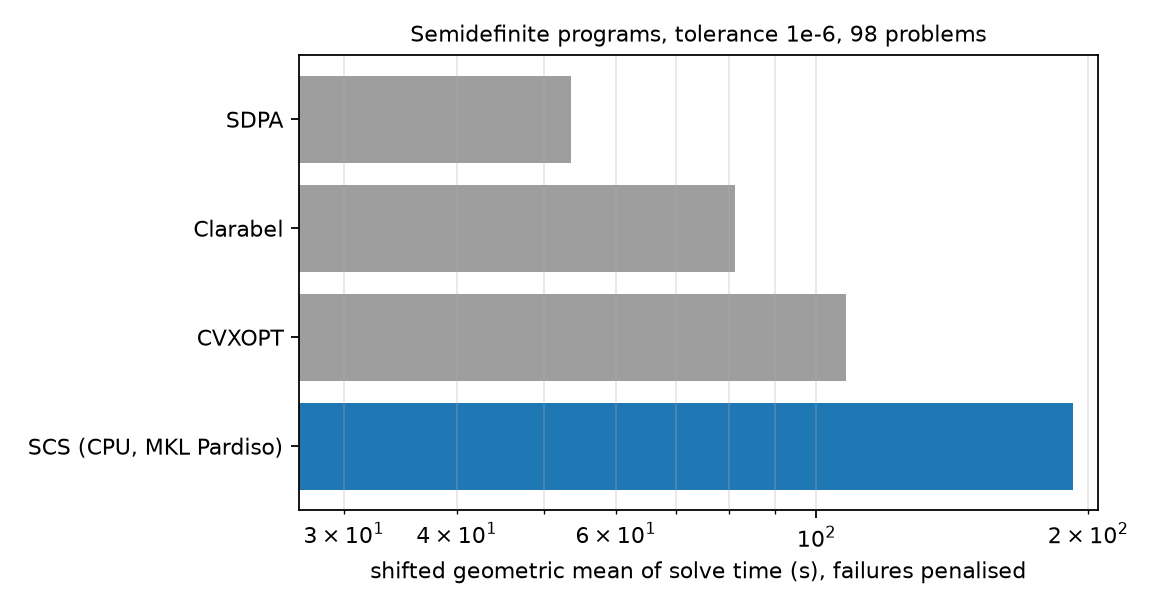
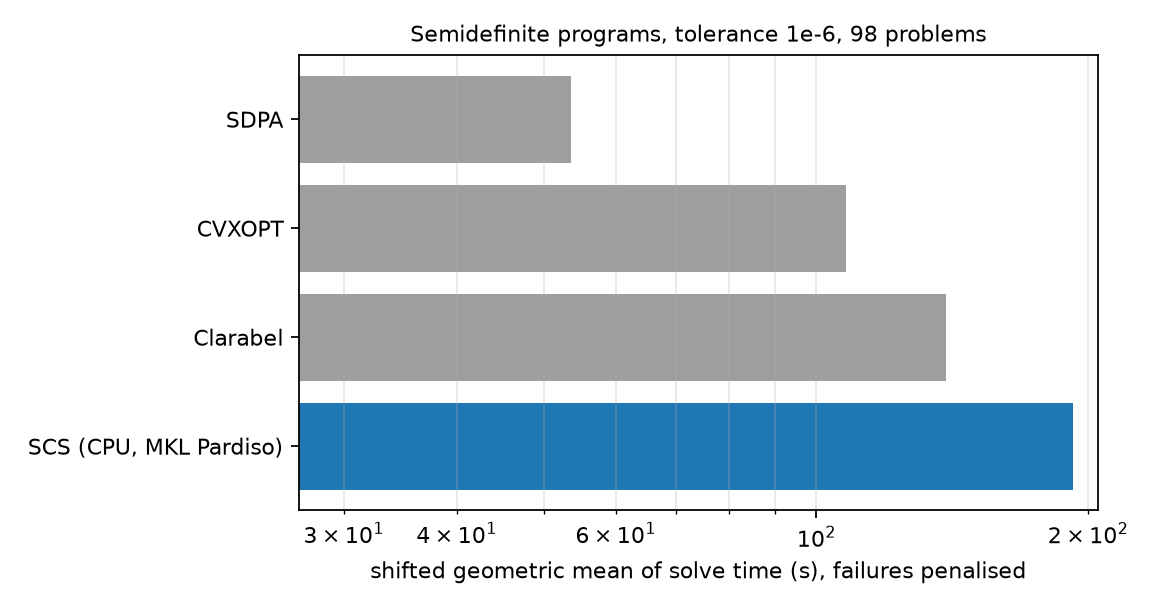
docs: charge unattempted instances as failures in the geomean bars
Clarabel's excluded large-PSD SDP instances and L1_sixm LPs had no rows and
were not penalised in the shifted geometric means; the profiles already
treated them as failures. Regenerated all bars and tables.

Changed region(s): [[0.625, 0.2812, 0.8438, 0.625], [0.1562, 0.3438, 0.25, 0.4062], [0.1562, 0.5312, 0.25, 0.5938]]

diff --git a/docs/src/benchmarks/index.rst b/docs/src/benchmarks/index.rst
@@ -376,15 +376,6 @@ an interior-point solver.
      - 108.0
      - 20
      - 88.4
-   * - Clarabel
-     - 48
-     - 79.7
-     - 13
-     - 118.1
-     - 47
-     - 81.3
-     - 11
-     - 147.1
    * - SCS (CPU, MKL Pardiso)
      - 76
      - 98.0
@@ -403,6 +394,15 @@ an interior-point solver.
      - --
      - --
      - --
+   * - Clarabel
+     - 48
+     - 137.0
+     - 13
+     - 204.6
+     - 47
+     - 139.1
+     - 11
+     - 240.2
 
 .. _bench_lpbig:
 
@@ -454,7 +454,7 @@ notes below).
      - 325
    * - Clarabel
      - 19
-     - 340
+     - 360
    * - PIQP
      - 12
      - 428
@@ -464,7 +464,6 @@ notes below).
    * - HiGHS
      - 9
      - 804
-
 
 Set-specific exclusions: Clarabel could not attempt ``L1_sixm250obs`` and
 ``L1_sixm1000obs`` within 64 GB (counted as failures); OR-Tools PDLP cannot
